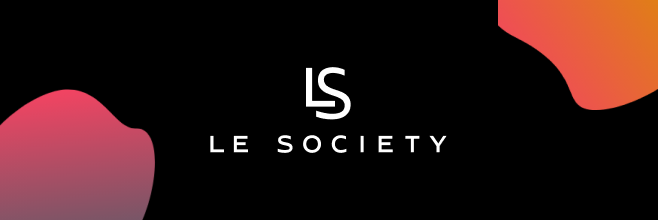
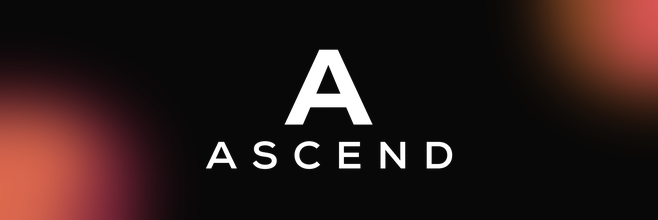
Rebrand email templates to Ascend (images + remaining refs)
- Regenerate email header banners (Frame43075*.png) and the Group238_1 logo
  with the Ascend "A" + ASCEND wordmark (kept the black + gradient-blob style).
- Replace white email logos: LeSocietyIconWhite/LogoWhite -> AscendIconWhite/
  AscendLogoWhite; update verify-email.ejs refs; remove old lesociety-named files.
- Default email subject "Secret Time" -> "Ascend".

No "lesociety"/"le society" text or filenames remain in views/mails.

diff --git a/lesociety/latest/home/node/secret-time-next-api/helpers/helper.js b/lesociety/latest/home/node/secret-time-next-api/helpers/helper.js
@@ -31,7 +31,7 @@ exports.sendEmailNewSignup = (mailData) => {
             const mailOptions = {
                 from: process.env.MAIL_ID_FROM, // sender address
                 to: mailData.to ? mailData.to : process.env.MAIL_ID_TO,
-                subject: mailData.subject ? mailData.subject : "Secret Time",
+                subject: mailData.subject ? mailData.subject : "Ascend",
                 html: data,
             };
             try {